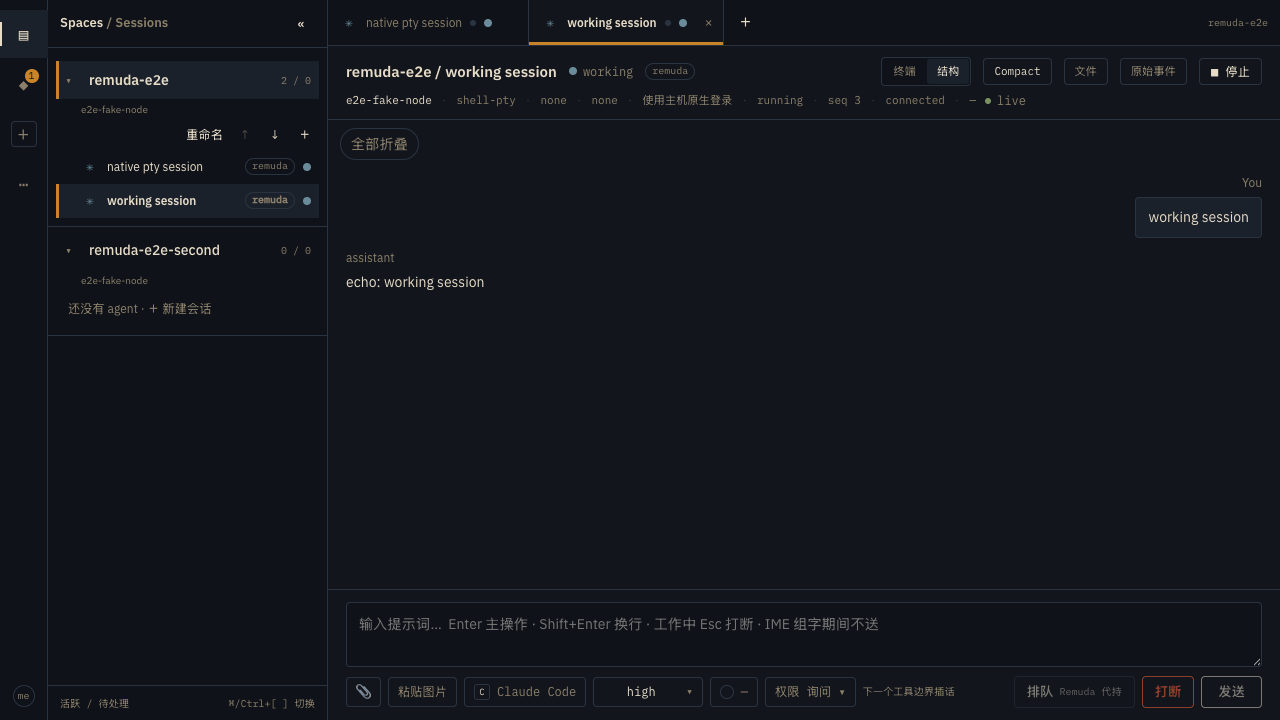
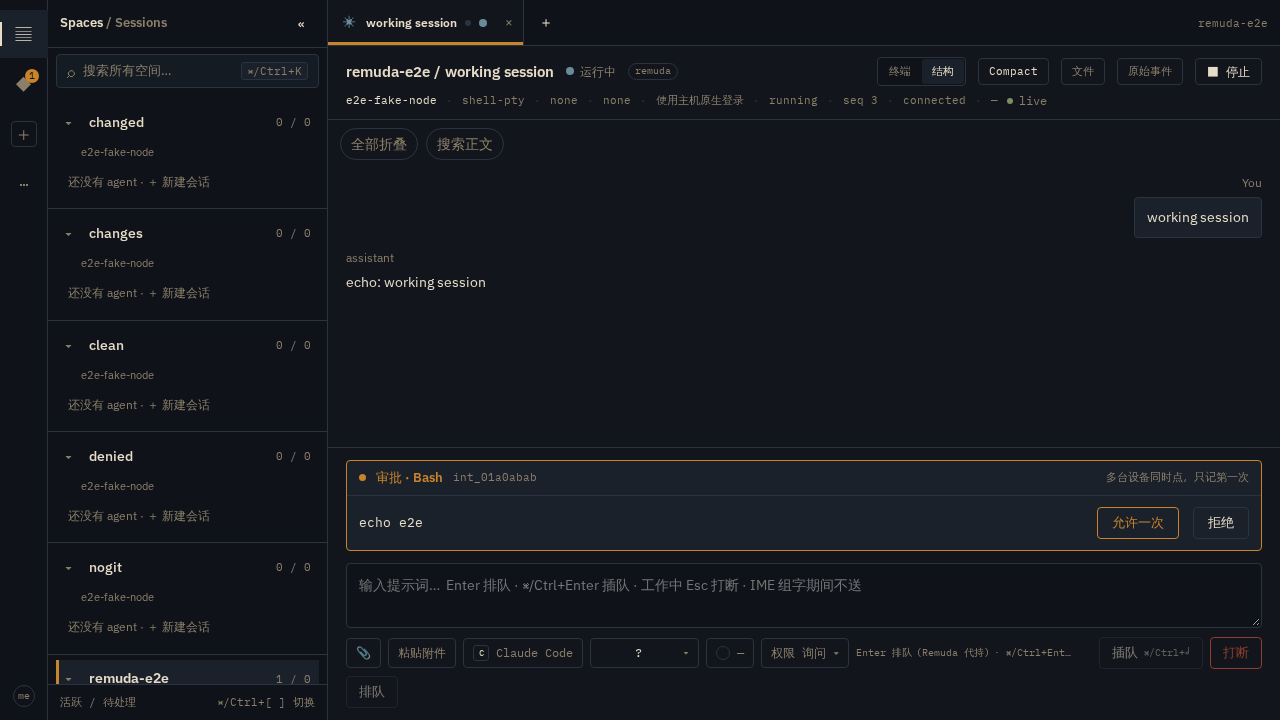
docs(evidence): steer-1 measured interrupt→delivery; refresh composer shots
steer-1.md: design, ordering ledger, measured latency (Esc ~6 ms, steer
written ~134 ms after turn-ended inside the 2 s budget), and e2e results.
native-pty-web-1.md + working-composer screenshots updated for Enter
排队 / 插队 / 打断.

diff --git a/docs/design/evidence/steer-1.md b/docs/design/evidence/steer-1.md
@@ -1,0 +1,126 @@
+# steer-1 — 插队 (interrupt-and-send) end to end
+
+Date: 2026-09-17. Branch `wt/c-c-steer/steer-and-busy-detection`.
+
+Scope: the owner finding — a message typed while AskUserQuestion/approval was
+pending sat 排队 forever because the pending interaction was classified as
+"working"; and the ask for an explicit 插队 gesture (Cmd/Ctrl+Enter + visible
+button): interrupt the current turn and deliver the message first, ahead of
+the held queue, journaled with origin + reason.
+
+Synthetic fixture only (in-process fake node + fake PTY in the Rust worker
+tests); no real model, no real PTY. The native keystroke facts for claude
+2.1.270 come from [`claude-queue-steer-1.md`](./claude-queue-steer-1.md);
+this change implements the Remuda side on top of them.
+
+## What was wrong (before)
+
+- The web composer hard-disabled itself whenever an interaction was pending
+  (`disabled={… || pending.length > 0}`), while the instance activity model
+  already distinguished `waiting-interaction` (`blocked`) from `working`. A
+  prompt sent into the D-022 PTY queue behind the approval was marked
+  `waiting-interaction` too, so every queued message looked like it was stuck
+  behind "work" and never surfaced a reason.
+- There was no jump-ahead path anywhere: the node's `pty_queue` was strictly
+  FIFO, `instance.cancel` cleared the **whole** queue, and the node dropped
+  `PromptMode` at its RPC edge (`runtime_link.rs` / `runtime_wss.rs` /
+  `hubnode_codec.rs`) — `mode:"steer"` reached nothing.
+- Plain Enter while working held a message web-only with no transcript row
+  describing why it waited or its position, and the only "interrupt and send"
+  control (`打断并发送`) fired two separate commands from the browser, so a
+  page that lost focus between them could cancel without sending.
+
+## Design (this change)
+
+### Busy classification
+
+- `waiting-interaction` (AskUserQuestion, PermissionRequest, Elicitation,
+  plan review) is **not working** end to end. The web projects it to the
+  composer phase `blocked`; the composer stays enabled, offers plain 打断 but
+  never 插队 (Esc into a dialog would answer/dismiss the question), and Enter
+  holds the message with reason `answer` — tag 「待回答后送出」.
+- The node's PTY queue no longer paints queued prompts over a
+  `WaitingInteraction` activity (`remark_after_enqueue` keeps a real
+  question's evidence), and a queued follow-up behind a *running* turn keeps
+  the turn's `Working` evidence. Previously every queued prompt forced
+  `waiting-interaction`, which is exactly what made a question and a running
+  turn indistinguishable.
+
+### 插队 (mode = `steer`)
+
+One command, atomic interrupt-then-deliver inside the node instance worker:
+
+1. The web posts a normal `instance.send` with `mode:"steer"`
+   (Cmd/Ctrl+Enter, or the visible 插队 button with a confirm dialog).
+2. The node queue worker (`crates/remuda-node/src/runtime/pty_queue.rs`):
+   - journals the prompt as a `queued` user row carrying `promptMode:steer`
+     and inserts it at the **front** of the deque (FIFO prompts keep their
+     order behind it);
+   - when the instance was `working`, executes `DriverRequest::Cancel` —
+     `esc` through the driver's own key path (`claude_pty`/`generic_pty`
+     send_keys(["esc"]); `shell_pty` per-harness `interrupt_bytes`) — and
+     appends a `turn-interrupted` native lifecycle
+     (`relatedIds: {origin, reason:"user-steer", commandId}`);
+   - holds the steer at the head until the turn ends: activity leaves
+     `working`/`waiting-interaction` (Stop/turn-ended/idle evidence from the
+     harness), then writes the prompt on the first delivery tick;
+   - bounds the wait at **2 s** (`STEER_INTERRUPT_BUDGET`); past it, a missed
+     idle signal no longer blocks delivery (`wait_control` still probes), so
+     the prompt can never sit 排队 forever — a harness that natively absorbs
+     mid-turn text (claude's tool-boundary queue) does the right thing with it;
+   - on completion appends `prompt-steer`
+     (`reason:"interrupted-current-turn"`) and completes the queued user row,
+     which keeps its `promptMode:steer` through the revision replace.
+- Plain Enter while working holds the message web-side (reason `turn`),
+  shown as 「排队中 · 第 n 条 · 回车后送出」with per-row cancel; on
+  working→idle the rows flush in order as ordinary `new-turn` sends. A
+  harness-native queue (codex Tab) still posts `mode:queue` immediately and
+  the chip is a non-cancelable ledger mirror.
+- A pending-question hold (reason `answer`) flushes on
+  blocked→idle/working when the interaction is answered.
+
+## Measurements
+
+From the Rust worker test
+`pty_queue::tests::steer_interrupts_the_running_turn_then_jumps_the_queue`
+(fake PTY: a long tool whose control closes, harness reports idle after the
+interrupt — `cargo test -p remuda-node --lib pty_queue -- --nocapture`,
+3 runs, dev build, 2026-09-17):
+
+| run | Esc dispatched | turn-ended evidence | steer written | steer after turn-ended |
+|----:|---------------:|--------------------:|--------------:|-----------------------:|
+| 1 | 6.3 ms | 257.2 ms | 391.0 ms | **133.8 ms** |
+| 2 | 6.2 ms | 257.1 ms | 390.7 ms | **133.5 ms** |
+| 3 | 6.3 ms | 257.5 ms | 392.6 ms | **135.1 ms** |
+
+(The fixed ~257 ms "turn-ended" column is the test's own 250 ms dwell proving
+the steer does NOT write while the turn is still `working`; the product
+number is *steer after turn-ended*: one ≤200 ms delivery tick, versus the
+2 s live budget.)
+
+Observed order for three prompts (`first` already delivered, `second` and
+`third` queued, `jump` 插队): PTY writes
+`first → Esc → jump → second → third`; queued user rows complete in the same
+order; the two FIFO commands keep ordinals 1/2 and settle completed.
+
+E2E (Playwright, in-process fake node, `tests/e2e/ux-steer.hub.spec.ts`):
+3/3 passing, ~36 s total:
+
+- queue two → cancel one → 插队: `mode:steer` POST precedes the surviving
+  held row, which flushes after idle with no `mode`; no row keeps a held tag;
+- pending-question (`blocked-question` sentinel in `hub_e2e.rs`): composer
+  stays enabled, no 插队 button, Enter shows 待回答后送出, zero commands POSTed
+  until the interaction is answered, then the message flushes as a plain send;
+- Ctrl+Enter POSTs `mode:steer`.
+
+## What is deliberately NOT in scope
+
+- The AskUserQuestion card itself and its "Type something" free-text row are
+  c-question's file (`wt/c-question`); the blocked-composer change here only
+  stops misclassifying the pending interaction and queues around it.
+- The live strip (r-live-signal) renders the native phases; this branch reads
+  instance activity for the composer and does not alter the strip.
+- Capabilities matrix: claude `interrupt`/`queue` cells stay as the D-028
+  task left them; the 插队 control follows the reported `interrupt`
+  capability provision (native Esc / emulated cancel sequence / unknown),
+  never guessing.

diff --git a/docs/design/evidence/native-pty-web-1.md b/docs/design/evidence/native-pty-web-1.md
@@ -29,19 +29,25 @@ Spec: `docs/design/native-pty-first.md` §1.0 / §5.1 / §6 / §8 (D-028 / D-028
   the structured projection is enabled by the reported `signalTier`
   (hook/file/osc) — not by `driver !== "claude-print"`. A new shell-pty agent
   session opens on 结构 and keeps 终端 one switch away.
-- **Composer three states (§6).** A pure state machine
-  (`features/composer/state.ts`) maps instance phase × measured
+- **Composer states (§6, revised by c-steer 2026-09-17).** A pure state
+  machine (`features/composer/state.ts`) maps instance phase × measured
   steer/queue/interrupt provisions (`native|emulated|unknown`) to controls:
   - idle → 发送 (new-turn);
-  - working + native steer (claude/codex) → 发送 steers (PromptMode
-    `steer`), 排队 always available (native Tab for codex, otherwise
-    「Remuda 代持」), red 打断 (`instance.cancel`);
-  - working + emulated/unknown steer (grok/agy) → 排队 primary plus
-    「打断并发送」 behind a confirm; unknown renders「尚未验证」, never a
-    fake-greyed button.
-  - Queued items render removable chips; the status chip shows
-    queued/interrupted counts. Enter = primary, Shift+Enter = newline, Esc
-    while the composer is focused = 打断 with a desktop confirm. 400px fits.
+  - working → Enter QUEUES (codex: native Tab posted immediately; every other
+    harness: Remuda-held client-side until the turn ends); 插队
+    (⌘/Ctrl+Enter or its button) posts `mode:steer` — the Node interrupts the
+    running turn and delivers the message ahead of the held queue, journaling
+    origin+reason; 打断 (`instance.cancel`) ends the turn without a message;
+  - blocked (AskUserQuestion / approval / elicitation / plan review pending)
+    is NOT working: the composer stays enabled, offers 打断 but never 插队
+    (Esc would hit the dialog), and Enter holds with「待回答后送出」until the
+    interaction resolves;
+  - provision is reported honestly — native Esc, Remuda-sent cancel sequence,
+    or 尚未验证 — never a faked button.
+  - Queued items render removable chips AND pending transcript rows tagged
+    「排队中 · 第 n 条 · 回车后送出」/「待回答后送出」; delivered rows lose
+    the tag. Enter = queue, Shift+Enter = newline, ⌘/Ctrl+Enter = 插队,
+    Esc while the composer is focused = 打断 with a desktop confirm. 400px fits.
 - **Mobile dock (§5.2).** `LocalInput` no longer appends `\r`; it routes
   through `hubStore.send` → `instance.send`, so the driver performs the
   body-then-Enter two writes. Raw-key buttons stay on the binary channel.
@@ -62,8 +68,8 @@ Spec: `docs/design/native-pty-first.md` §1.0 / §5.1 / §6 / §8 (D-028 / D-028
 |---|---|
 | New Session, native shell-pty default + launch preview, 1440px | [native-pty-web-1-new-session-1440.png](./native-pty-web-1-new-session-1440.png) |
 | Same sheet at 400px (driver choices wrap, preview scrolls) | [native-pty-web-1-new-session-400.png](./native-pty-web-1-new-session-400.png) |
-| Working composer: 发送(steer) / 排队（Remuda 代持）/ 打断, queued chip, 1440px | [native-pty-web-1-composer-working-1440.png](./native-pty-web-1-composer-working-1440.png) |
-| Same at 400px — three controls + removable chip fit the bar | [native-pty-web-1-composer-working-400.png](./native-pty-web-1-composer-working-400.png) |
+| Working composer: Enter 排队（Remuda 代持）/ 插队(⌘/Ctrl+↵) / 打断, queued chip, 1440px | [native-pty-web-1-composer-working-1440.png](./native-pty-web-1-composer-working-1440.png) |
+| Same at 400px — queue + 插队 + 打断 + removable chip fit the bar | [native-pty-web-1-composer-working-400.png](./native-pty-web-1-composer-working-400.png) |
 
 ## Stable testids
 
@@ -72,12 +78,13 @@ Spec: `docs/design/native-pty-first.md` §1.0 / §5.1 / §6 / §8 (D-028 / D-028
 | `new-session-driver-shell-pty` etc. | driver choice rows; `data-default=0\|1`; disabled when the matrix refuses |
 | `new-session-launch-preview` | read-only materialized-argv summary |
 | `composer` | attrs add `data-phase=idle\|working\|blocked\|exited` |
-| `composer-send` | primary send/steer; `data-mode=new-turn\|steer` |
-| `composer-queue`, `composer-queue-btn` | primary queue (emulated steer) / secondary queue; `data-holder=remuda\|native` |
-| `composer-interrupt` | red interrupt; `data-provision=native\|emulated\|unknown` |
-| `composer-interrupt-send` | 打断并发送 (confirm) |
-| `composer-queued-chip` / `composer-queued-remove` / `composer-queue-status` | Remuda-held/native queue ledger |
-| `composer-interrupted-chip` | post-cancel status |
+| `composer-send` | idle primary send; `data-mode=new-turn` |
+| `composer-queue` | busy primary queue (Enter); `data-mode=queue`, `data-holder=remuda\|native` |
+| `composer-steer` | c-steer 插队 (interrupt + deliver first); `data-provision=native\|emulated\|unknown`; ⌘/Ctrl+Enter |
+| `composer-interrupt` | interrupt; `data-provision=native\|emulated\|unknown` |
+| `composer-queued-chip` / `composer-queued-remove` / `composer-queue-status` | held/native queue ledger; chip carries `data-reason=turn\|answer` and `data-ordinal` |
+| `held-queue-tag` / `held-queue-cancel` | pending transcript row tag / per-message cancel |
+| `composer-interrupted-chip` / `steer-delivered-tag` | post-cancel status / delivered 插队 badge |
 | `composer-cap-note` | honest emulation/unverified note |
 | `node-restart-banner`, `node-restart-resume` | §8 banner |
 | `launched-by` | provenance mark; `data-launched-by=user\|remuda` |
